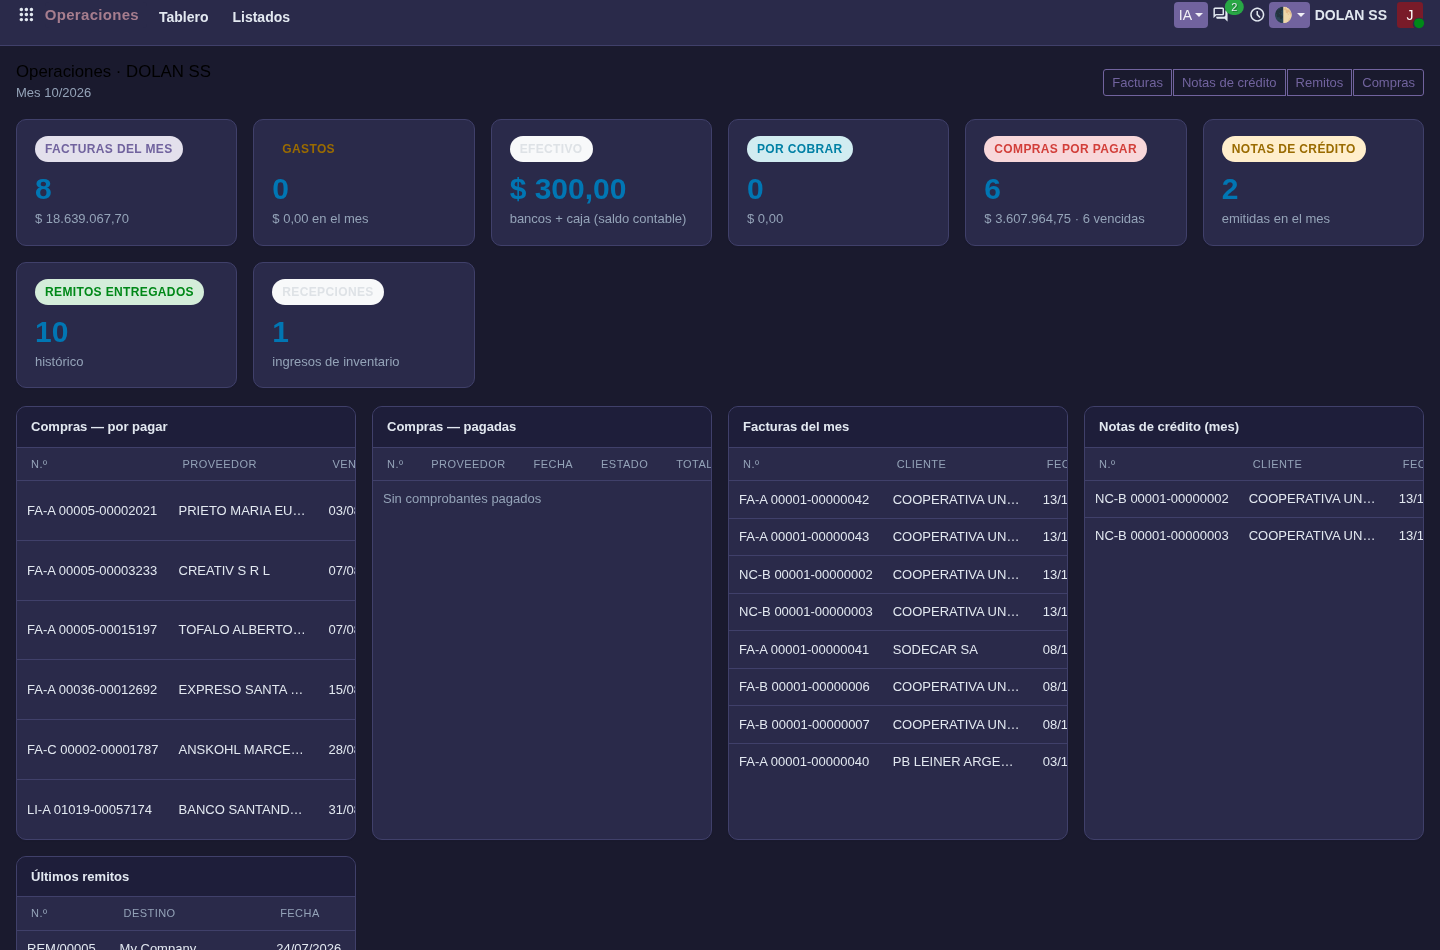
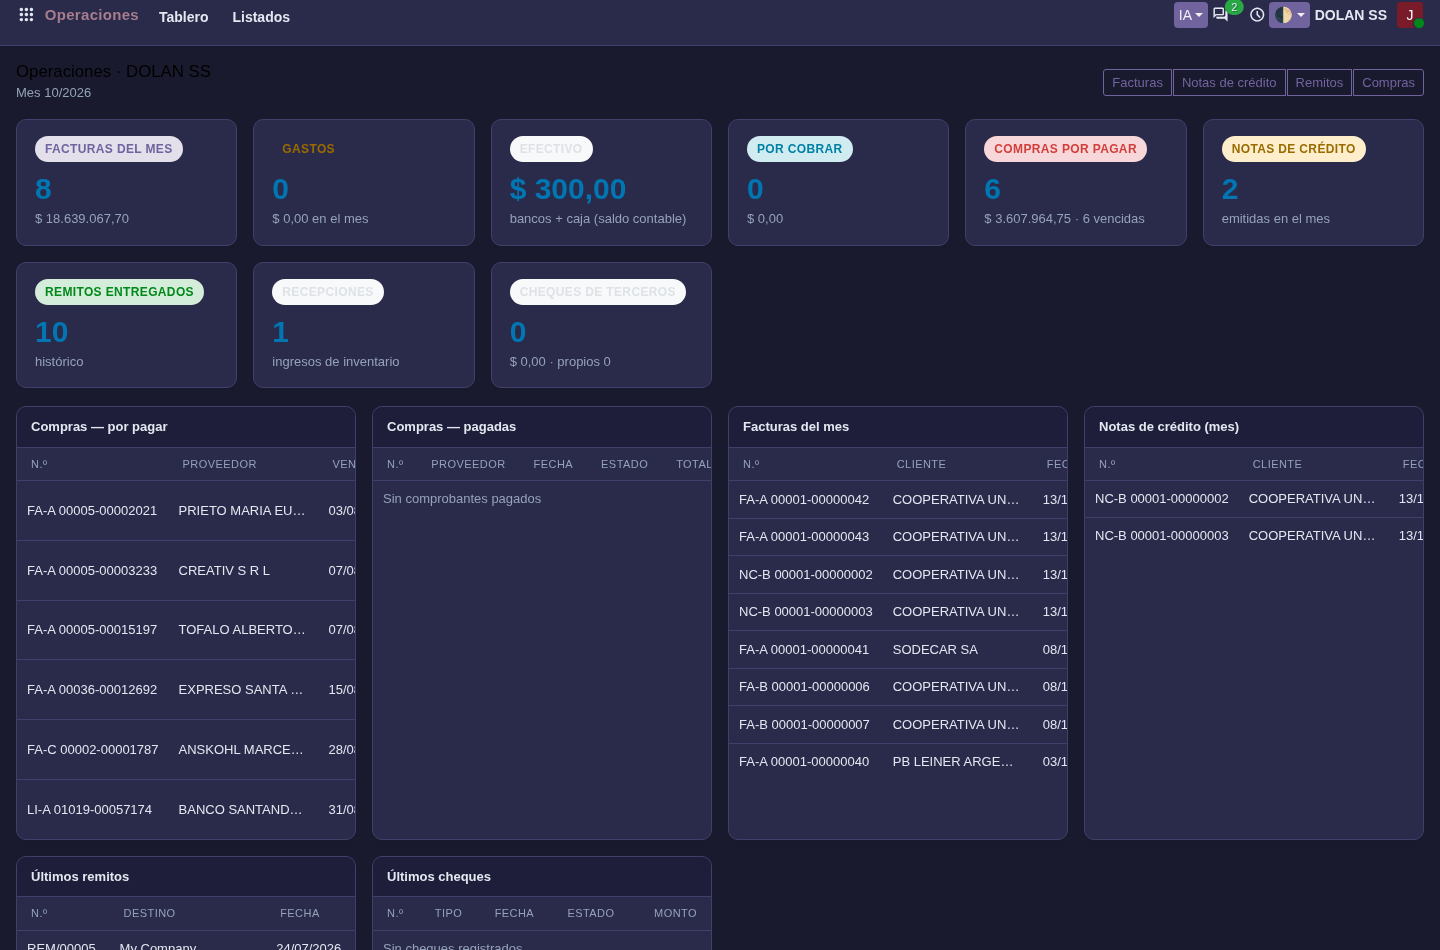
docs(odd): L52 log and evidence for the in-webclient home grid

Changed region(s): [[0.3438, 0.2747, 0.5, 0.4274], [0.25, 0.9158, 0.5, 1.0]]

diff --git a/odd/tasks/dolan-theme.md b/odd/tasks/dolan-theme.md
@@ -101,7 +101,7 @@ S7 (user, verbatim): "quiero que eliminemos la sidebar para lograr una experienc
 - **Rail eliminada (T11)**: `navbar_rail.xml`, `rail_toggle.js`, bloque `.o_dolan_rail*` + offsets `.o_action_manager` (240/68px) de `navigation.scss`, reglas dark muertas en `home_grid.py`, entradas del manifest. **Hotkeys** `g+letra` reescritos sobre el servicio oficial `menu` (`selectMenu`) — ya no clickean nodos de la rail; `g+c` verificado → `/odoo/purchase`.
 - **QA (GREEN total)**: `verify_icon_navigation.mjs` **10/10**, `verify_single_rail.mjs` **47/47** (8 páginas standalone sin rail + grilla + webclient sin rail/offset + atajo), `verify_status_dot.mjs` **9/9**, `theme_v2_e2e.mjs` **8/8**. `probe_rail.mjs` borrado (era específico de la rail).
 - **Evidencia**: `qa/shots/l45-webclient-sin-rail.png` (webclient sin rail, contenido al borde), `l44-single-rail-home-dark.png`.
-- **Brecha de paridad abierta**: la demo muestra la grilla de inicio **dentro** del webclient (con topbar); la nuestra es una página standalone con "← Volver a Odoo". Requiere decisión del usuario (client action vs página).
+- ~~**Brecha de paridad abierta**: la demo muestra la grilla de inicio **dentro** del webclient (con topbar); la nuestra es una página standalone con "← Volver a Odoo".~~ **CERRADA en L52**: el Inicio ahora es un client action (`dolan_theme.home_grid`) que renderiza la grilla dentro del webclient; la página standalone `/dolan_apps` queda sólo para enlaces viejos.
 - Risk: item 3 (se quitan la rail y una opción de Ajustes que consumía el servicio borrado; ambos contratos eran nuestros) — verificado con 4 suites completas + `-u dolan_ui` limpio.
 
 ### L46 — Paridad "Contabilidad" con la demo (2026-10-29)
@@ -150,3 +150,12 @@ S7 (user, verbatim): "quiero que eliminemos la sidebar para lograr una experienc
 - **Bugs/cuidados**: carrera de herramientas (el manifiesto se copió al deploy antes de la edición → el menú no se creó; resincronizado y `-u`); ACL con el formato nuevo `operation` de Odoo 20.
 - **QA**: `verify_estados_financieros.mjs` ampliado a los 4 reportes → **10/10** (menús, wizards, XLSX con magic PK) + parseo del XLSX: 97 asientos, Deber = Haber = 206.666.888,90 y balance 0 por diario.
 - Risk: item 3 (reporte propio nuevo; sólo lectura de asientos publicados) — verificación: E2E de descarga + parseo numérico + controles contra la BD.
+### L52 — Inicio dentro del webclient + limpieza (2026-10-30)
+- **Merge del PR #6** a `main` (merge commit `70fc60c`): theme v2 + L42-L51 (Contabilidad, cheques, estados de cuenta, IVA/ARCA, estados financieros propios, auditoría propia, reproducibilidad del installer).
+- **Ruteo de entrada (M2)**: medido que `/web` era determinista pero caía a la página standalone `/dolan_apps` **sin topbar** (el síntoma que molestaba). El Inicio ahora es un **client action** (`dolan_theme.home_grid`, Owl sin state: `fetch` de `/web/webclient/load_menus` + `t-foreach` de links) → `/web` → `/odoo` → **grilla dentro del webclient** con la barra nativa, el systray de tema y sin rail. La página standalone `/dolan_apps` se mantiene para enlaces viejos (sigue con su "← Volver a Odoo").
+- **Bug propio**: `rpc()` manda POST y `/web/webclient/load_menus` es GET → 405 y grilla vacía; corregido con `fetch(..., {credentials:"same-origin"})`.
+- **Bug propio (QA)**: el caso "Facturación" del QA seguía con el nombre viejo; renombrado a "Contabilidad" (`/odoo/accounting`).
+- **M3**: borrado el parámetro huérfano `dolan.ui.default_app` de `ir_config_parameter` (quedó sin consumidor tras L45); `dolan.ui.settings` sin ese campo y `/web/dolan_ui/config` devuelve sólo `tema`/`densidad`.
+- **M4**: `pypdfium2` **ya estaba** en el Dockerfile del installer (línea del `pip3 install`) y la imagen lo tiene (5.14.0) → sin cambios; el pendiente de los gaps quedaba desactualizado.
+- **QA (verde total tras el cambio)**: `verify_icon_navigation` **10/10**, `theme_v2_e2e` **8/8**, `verify_single_rail` **47/47**, `verify_contabilidad_parity` **22/22**, `verify_estados_financieros` **10/10**, `verify_tablero_cheques` **6/6**, `verify_status_dot` **9/9**. Evidencia: `qa/shots/m2-home-webclient.png`.
+- Risk: item 3 (cambia el target del menú Inicio y assets del tema; la página standalone sigue existiendo) — 7 suites de regresión en verde y 0 errores JS.
